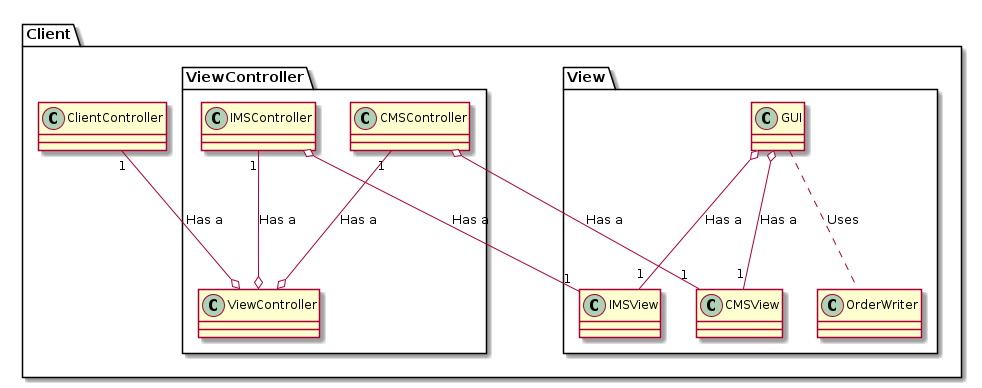
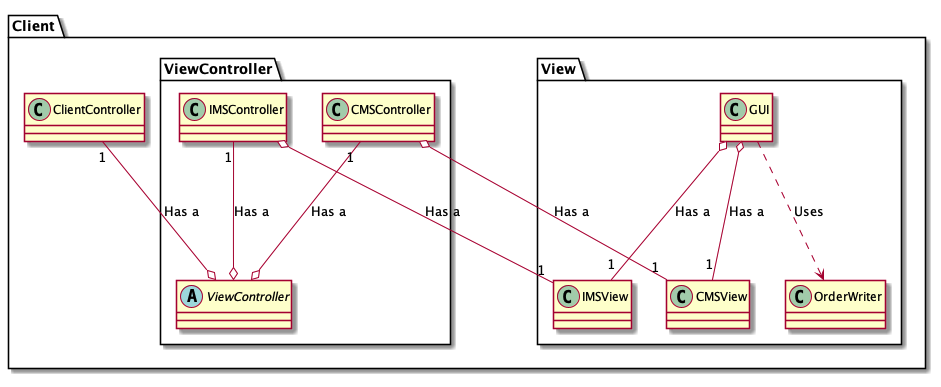
Minor corrections to uml

Changed region(s): [[0.0, 0.031, 1.0, 0.9922]]

diff --git a/UML Models/ServerPackage.md b/UML Models/ServerPackage.md
@@ -1,73 +1,47 @@
 @startuml
-
 package Server{
-    package ServerController{
+	package ServerController{
         class Server{
-
         }
         class ServerController{
-
         }
-
         class DBInit{
-
         }
-
         Server *--- "*" ServerController: Owns several
-        Server "1" ...> "1" DBInit: Uses a
+        Server ...> DBInit: Uses a
     }
-    
     package ModelController{
         interface ModelController{
-
         }
         class InventoryController implements ModelController{
-
         }
         class CustomerController implements ModelController{
-
         }
-
         ServerController "1" ---o InventoryController: Has a
         ServerController "1 "---o CustomerController: Has a
         InventoryController o--- "1" DBController: Has a
         CustomerController o--- "1" DBController: Has a
     }
-
-    package model{
+    
+   package model{
         package InventoryModel{
-
         }
-
         package CustomerModel{
-
         }
     }
-
-
-
-    package DBController{
-
-        class DBController{
-
-        }
-
-        class InventoryDBController{
-
-        }
-
-        class CustomerDBController{
-
-        }
-
-
-        DBController *--- "1" InventoryDBController: Owns a
+    
+   package DBController{
+    		class DBController{
+    		}
+    		class InventoryDBController{
+    		}
+    		class CustomerDBController{
+    		}
+    		DBController *--- "1" InventoryDBController: Owns a
         DBController *--- "1" CustomerDBController: Owns a
-
     }
-
-    InventoryController ... InventoryModel
-    CustomerController ... CustomerModel
+    InventoryController ...> InventoryModel
+    CustomerController ...> CustomerModel
 }
 
 

diff --git a/UML Models/ClientPackage.md b/UML Models/ClientPackage.md
@@ -1,52 +1,33 @@
 @startuml
 
 package Client{
-    package ViewController{
-        class ViewController{
-
-        }
-
-        class IMSController{
-
-        }
-
-        class CMSController{
-
-        }
-
-        CMSController "1" ---o  ViewController: Has a
-        IMSController "1" ---o ViewController: Has a
-
+	package ViewController{
+		abstract class ViewController{
+    		}
+    		class IMSController{
+    		}
+    		class CMSController{
+    		}
+    		CMSController "1" ---o  ViewController: Has a
+    		IMSController "1" ---o ViewController: Has a
+    	}
+ 
+  	class ClientController {
+  	}
+  	
+  	package View{
+    		class CMSView {
+    		}
+    		class IMSView {
+    		}
+    		class GUI{
+    		}
+    		class OrderWriter{
+    		}
+    		GUI ...> OrderWriter: Uses
     }
 
-    class ClientController{
-
-    }
-
-
-    package View{
-
-
-        class CMSView {
-
-        }
-
-        class IMSView {
-
-        }
-
-        class GUI{
-
-        }
-
-        class OrderWriter{
-
-        }
-
-        GUI ... OrderWriter: Uses
-    }
-
-    ClientController "1" ---o ViewController: Has a 
+ 	ClientController "1" ---o ViewController: Has a 
     IMSController o--- "1" IMSView: Has a
     CMSController o--- "1" CMSView: Has a
     GUI o--- "1" CMSView: Has a

diff --git a/UML Models/PackageDiagram.md b/UML Models/PackageDiagram.md
@@ -12,13 +12,13 @@ package "Server"{
     package ModelController{}
 }
 
-ClientController ... ServerController
-ClientController ... ViewController
-ViewController ... View
+ClientController ...> ServerController
+ClientController ...> ViewController
+ViewController ...> View
 
-ModelController ... Model
-ModelController ... DatabaseController
-ServerController ... ModelController
+ModelController ...> Model
+ModelController ...> DatabaseController
+ServerController <... ModelController
 
 @enduml
 
